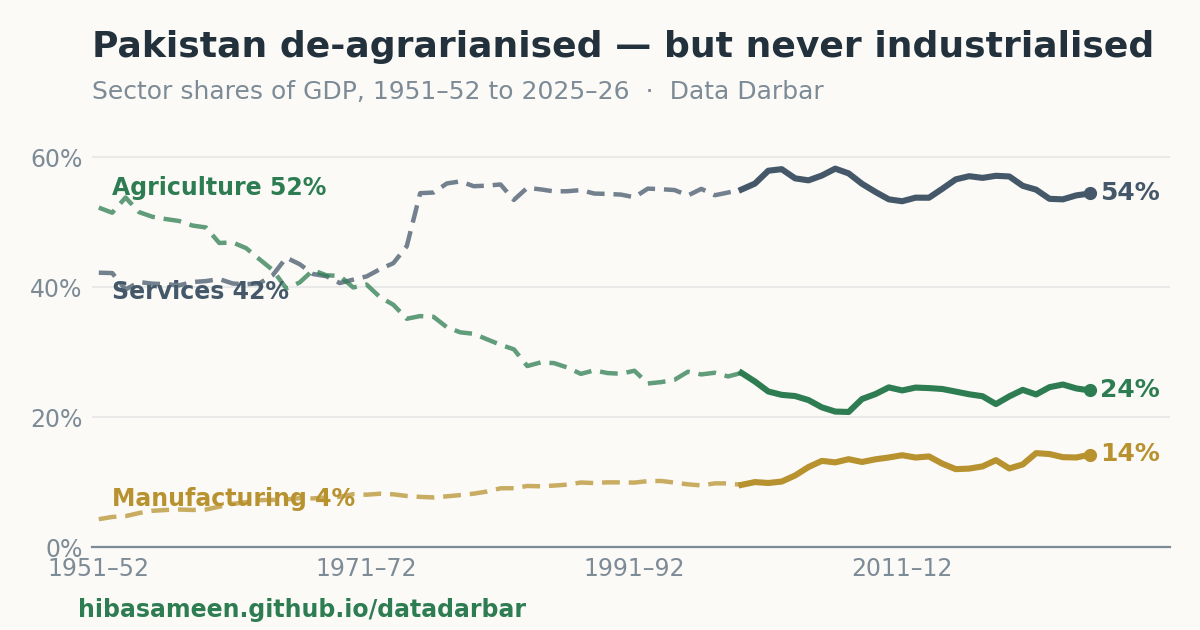
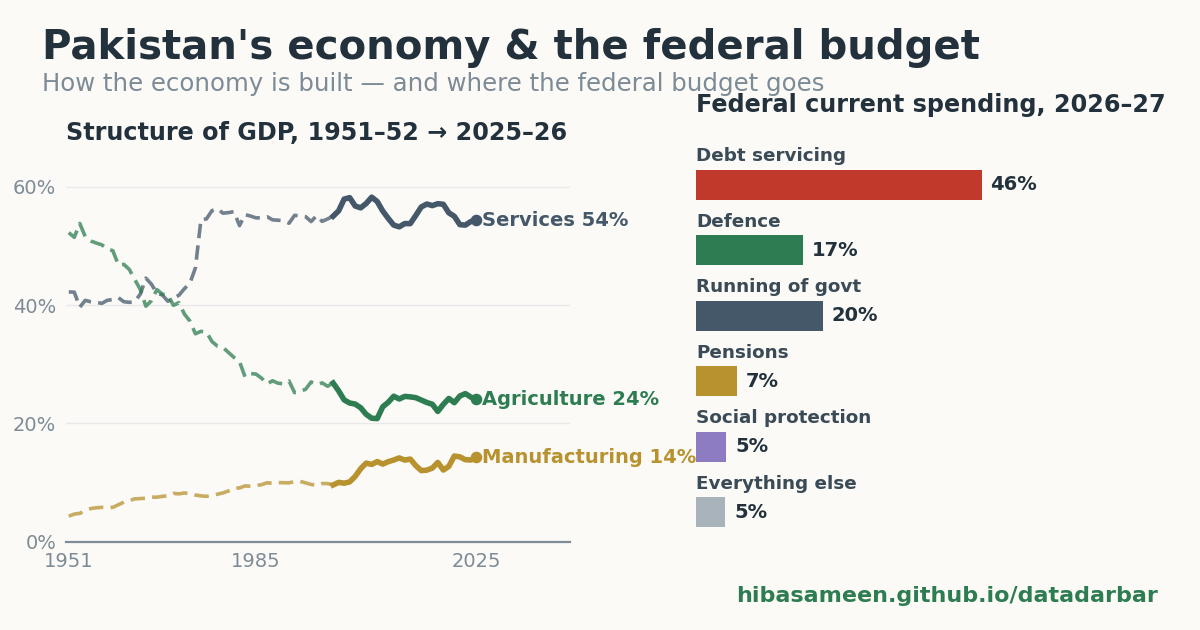
Per-page chart link previews; economy card shows budget; drop card emojis; unify font stack

diff --git a/app/finance.html b/app/finance.html
@@ -10,7 +10,7 @@
 <script src="assets/js/d3.v7.min.js"></script>
 <style>
 :root{--green-900:#0c3a1e;--green-800:#145228;--green-700:#186636;--green-600:#1e6b3e;--green-500:#22804a;--green-50:#f0f9f4;--gold-500:#d4a017;--gold-400:#e8b92e;--gold-300:#f0cc5a;--gold-100:#fef6dc;--slate-700:#3d424d;--slate-600:#505662;--slate-500:#6b7280;--slate-400:#9ca3af;--slate-300:#c5cad3;--slate-200:#e2e5ea;--slate-100:#f1f2f5;--slate-50:#f8f9fb;--ink:#17301f;--bg:#faf7ef;--radius:12px;--radius-sm:8px;--shadow:0 2px 10px rgba(12,58,30,.07);--shadow-lg:0 8px 28px rgba(12,58,30,.12);--sidebar-w:250px;}
-*{box-sizing:border-box;margin:0;padding:0}body{font-family:'Inter',system-ui,sans-serif;background:var(--bg);color:var(--ink);-webkit-font-smoothing:antialiased;line-height:1.5}
+*{box-sizing:border-box;margin:0;padding:0}body{font-family:'Inter',ui-sans-serif,system-ui,-apple-system,"Segoe UI",Roboto,sans-serif;background:var(--bg);color:var(--ink);-webkit-font-smoothing:antialiased;line-height:1.5}
 .hero h1{font-size:clamp(23px,3.6vw,32px);font-weight:800;letter-spacing:-.6px;color:var(--green-900)}.hero p{color:var(--slate-600);font-size:15px;max-width:78ch;margin-top:6px}
 .kpis{display:grid;grid-template-columns:repeat(auto-fit,minmax(150px,1fr));gap:12px;margin:18px 0}
 .kpi{background:#fff;border:1px solid var(--slate-200);border-radius:var(--radius);padding:13px 16px;box-shadow:var(--shadow)}.kpi .lbl{font-size:11px;font-weight:700;text-transform:uppercase;letter-spacing:.4px;color:var(--slate-500)}.kpi .val{font-size:25px;font-weight:800;color:var(--green-900);margin-top:2px}.kpi .sub{font-size:12px;font-weight:600;color:var(--slate-500)}.kpi .sub.neg{color:#c0392b}.kpi .sub.pos{color:var(--green-600)}

diff --git a/app/trade.html b/app/trade.html
@@ -11,7 +11,7 @@
 <style>
 :root{--green-900:#0c3a1e;--green-800:#145228;--green-700:#186636;--green-600:#1e6b3e;--green-500:#22804a;--green-50:#f0f9f4;--gold-500:#d4a017;--gold-400:#e8b92e;--gold-300:#f0cc5a;--gold-100:#fef6dc;--slate-700:#3d424d;--slate-600:#505662;--slate-500:#6b7280;--slate-400:#9ca3af;--slate-300:#c5cad3;--slate-200:#e2e5ea;--slate-100:#f1f2f5;--slate-50:#f8f9fb;--ink:#17301f;--bg:#faf7ef;--radius:12px;--radius-sm:8px;--shadow:0 2px 10px rgba(12,58,30,.07);--shadow-lg:0 8px 28px rgba(12,58,30,.12);--sidebar-w:250px;}
 *{box-sizing:border-box;margin:0;padding:0}
-body{font-family:'Inter',system-ui,sans-serif;background:var(--bg);color:var(--ink);-webkit-font-smoothing:antialiased;line-height:1.5}
+body{font-family:'Inter',ui-sans-serif,system-ui,-apple-system,"Segoe UI",Roboto,sans-serif;background:var(--bg);color:var(--ink);-webkit-font-smoothing:antialiased;line-height:1.5}
 .header{position:sticky;top:0;z-index:50;height:56px;background:var(--green-900);color:#fff;display:flex;align-items:center;justify-content:space-between;padding:0 20px;box-shadow:var(--shadow)}
 .brand{display:flex;align-items:center;gap:11px}.brand-mark{width:30px;height:30px;border-radius:8px;background:linear-gradient(135deg,var(--gold-400),#b8941a);display:grid;place-items:center;font-weight:800;color:var(--green-900);font-size:15px}
 .brand-title{font-weight:800;font-size:16px}.brand-tag{font-size:11px;color:var(--gold-300);font-weight:600}

diff --git a/app/index.html b/app/index.html
@@ -11,7 +11,7 @@
 <style>
 :root{--green-900:#0c3a1e;--green-800:#145228;--green-600:#1e6b3e;--gold-500:#d4a017;--gold-400:#e8b92e;--gold-300:#f0cc5a;--slate-700:#3d424d;--slate-600:#505662;--slate-500:#6b7280;--slate-300:#c5cad3;--slate-200:#e2e5ea;--slate-100:#f1f2f5;--ink:#17301f;--bg:#faf7ef;--shadow:0 2px 10px rgba(12,58,30,.07);--shadow-lg:0 10px 30px rgba(12,58,30,.14)}
 *{box-sizing:border-box;margin:0;padding:0}
-body{font-family:'Inter',system-ui,sans-serif;background:var(--bg);color:var(--ink);-webkit-font-smoothing:antialiased;line-height:1.55}
+body{font-family:'Inter',ui-sans-serif,system-ui,-apple-system,"Segoe UI",Roboto,sans-serif;background:var(--bg);color:var(--ink);-webkit-font-smoothing:antialiased;line-height:1.55}
 
 /* ===== Unified site header ===== */
 .site-header{position:sticky;top:0;z-index:1100;height:56px;background:var(--green-900,#0c3a1e);color:#fff;display:flex;align-items:center;justify-content:space-between;gap:16px;padding:0 20px;border-bottom:3px solid var(--gold-500,#d4a017);flex-shrink:0}
